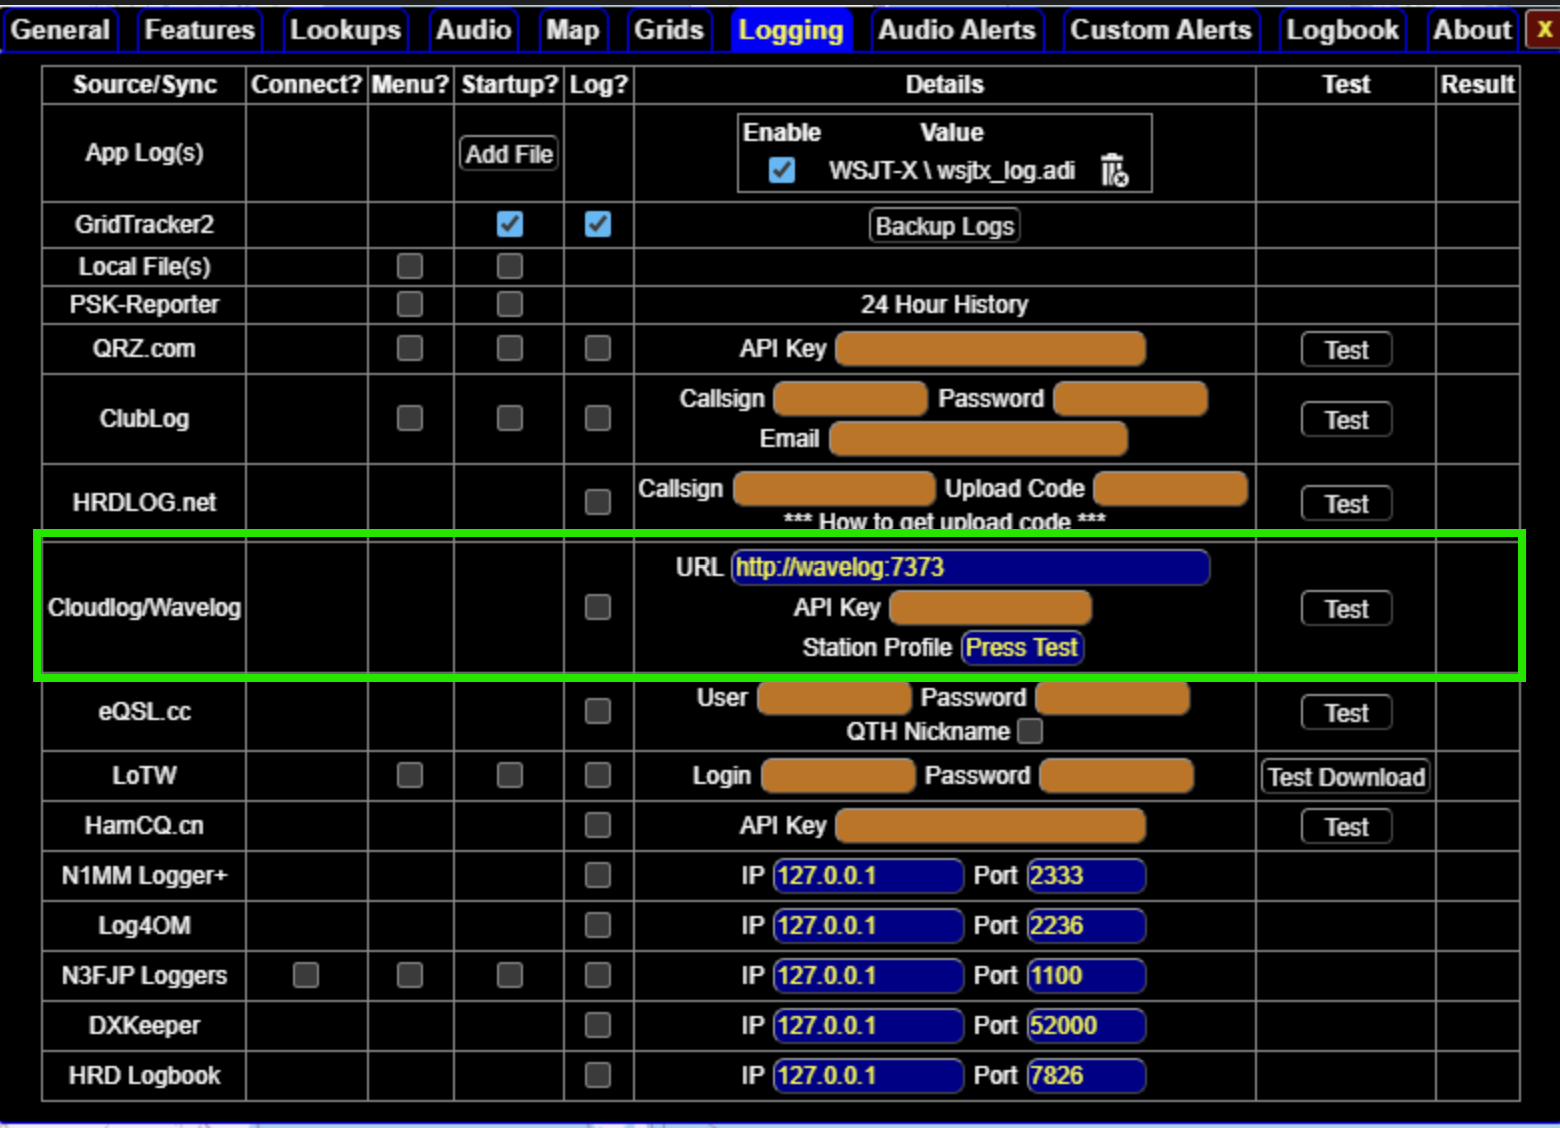
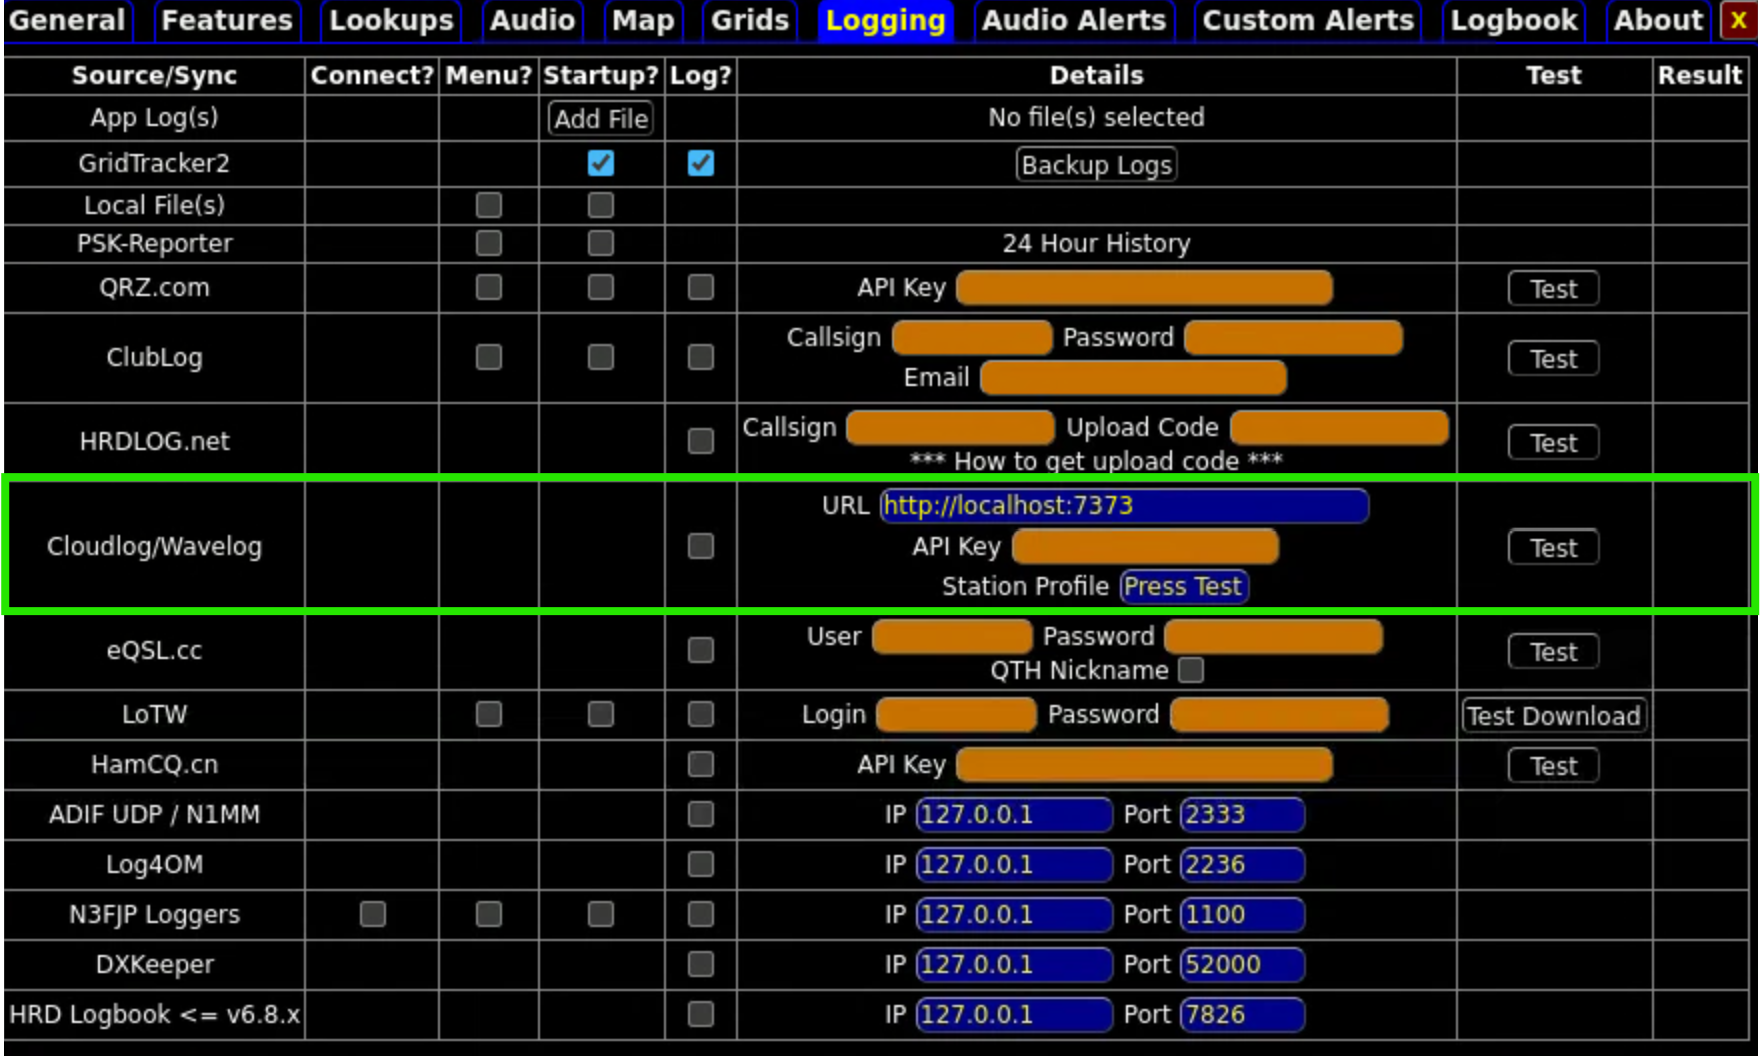
GridTracker2 and wsjtx path updates

diff --git a/Configuration.md b/Configuration.md
@@ -181,7 +181,7 @@ Most of the specific settings are using the correct names to connect the service
 ### Radio Tab
 For the radio setting on WSTJ-X set:
 * Rig: Hamliib NET rigctl (Maroon Box)
-* Network Server: hamlib-server:4532 (Green Box)
+* Network Server: localhost:45320 (Green Box)
   * This is static container name within BrowserShack so the network traffic doesn't leave the Server
   * Port is the internal port number of the hamlib-server container NOT the external port of 45320
 * PTT Method: CAT (Purple Box)
